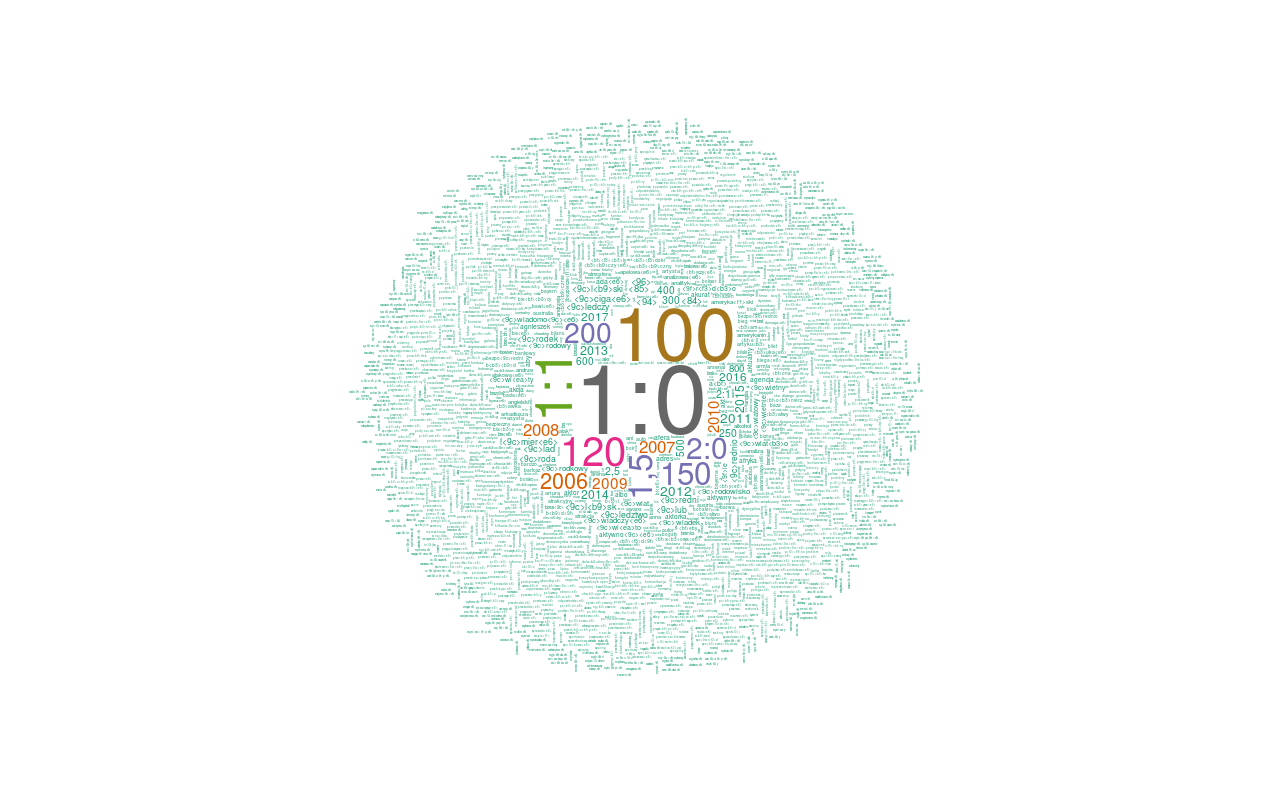
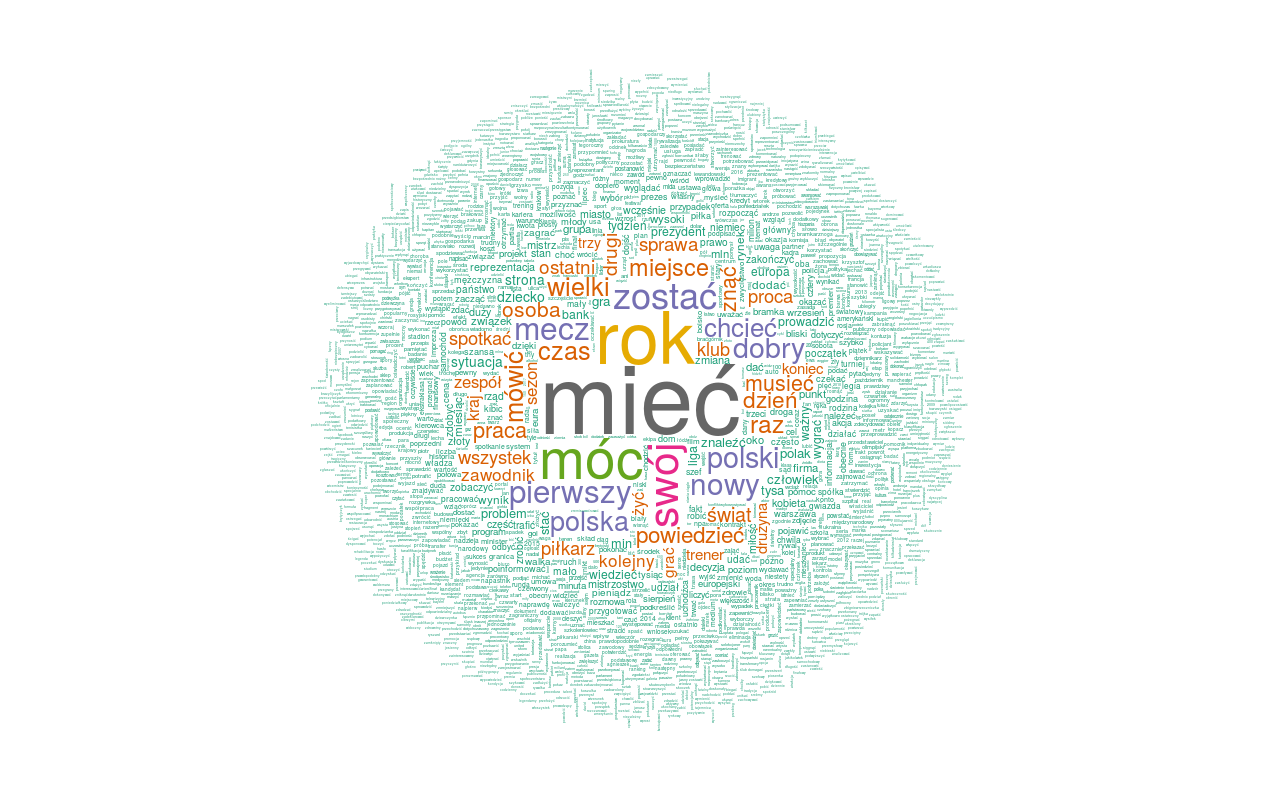
Wykresy word cloud

Changed region(s): [[0.25, 0.0938, 0.75, 0.9062]]

diff --git a/Wykresy/README.md b/Wykresy/README.md
@@ -1,0 +1,5 @@
+# Chmura słów - word cloud
+
+Version1 - chmura tagów na wystemowanych artykułach bez słów przestankowych i interpunkcji.
+
+Version2 - chmura tagów bez top100 słów na wystemowanych artykułach bez słów przestankowych i interpunkcji.
